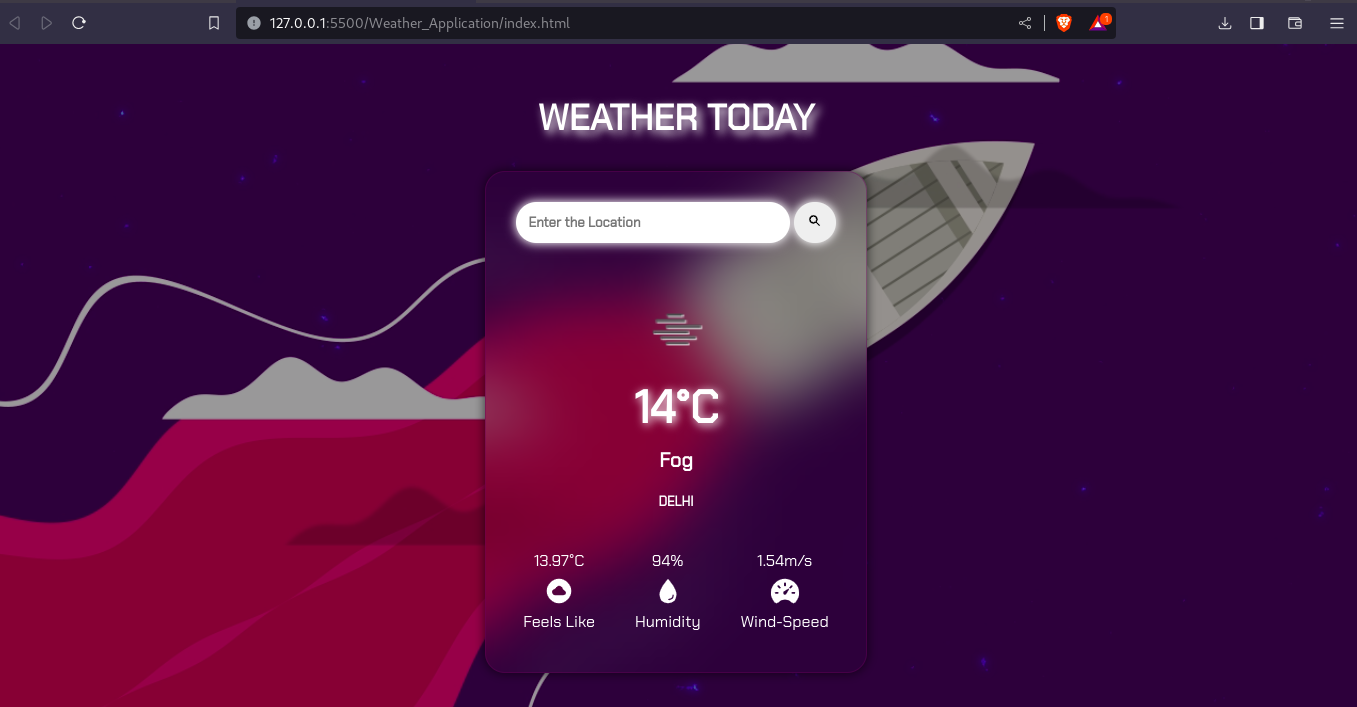
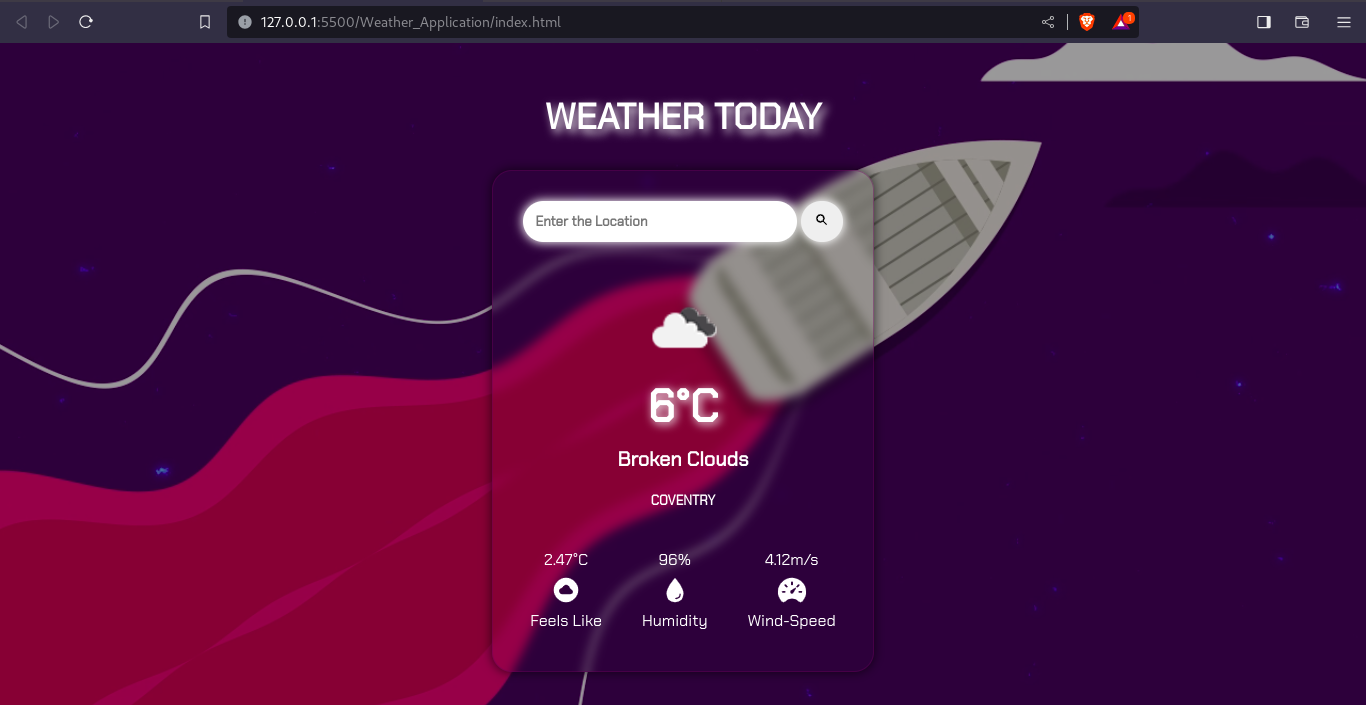
Learning Day 19

diff --git a/Weather_Application/index.js b/Weather_Application/index.js
@@ -1,5 +1,6 @@
 // Declaring Variables from HTML document.
-const Apikey = ``;  // Enter your API key from openweather.
+const Apikey = `ee46f080eb4a7f83bf9d0ecbd17c9951
+`;  // Enter your API key from openweather.
 const city = document.getElementById('js-input')
 const searchButton = document.getElementById('js-search-btn');
 const icon = document.getElementById('js-icon');

diff --git a/Weather_Application/style.css b/Weather_Application/style.css
@@ -45,7 +45,7 @@ header {
     align-items: center;
     border: 1px solid #64215b67;
     border-radius: 20px;
-    backdrop-filter: blur(30px);
+    backdrop-filter: blur(5px);
     background: transparent;
     box-shadow: 0px 0px 10px 1px #00000093;
 }
